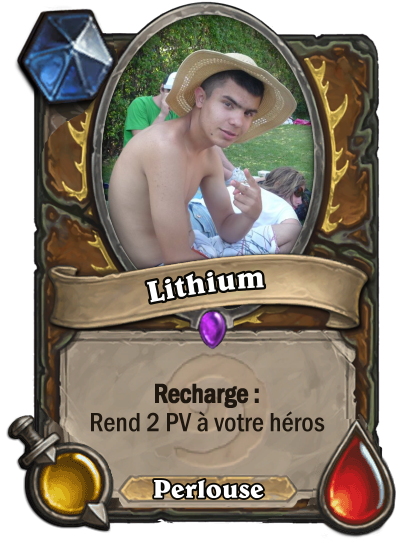
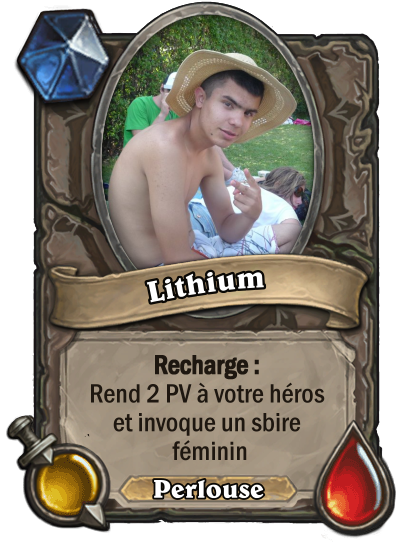
modif visuel carte + add effect

diff --git a/src/core/Monster.java b/src/core/Monster.java
@@ -1,6 +1,7 @@
 package core;
 import java.awt.Image;
 import java.util.ArrayList;
+import java.util.concurrent.ThreadLocalRandom;
 
 import javax.swing.ImageIcon;
 
@@ -20,7 +21,7 @@ public class Monster extends Card implements ICard, IAttackingCard{
 
 	private int damage;
 	private boolean death = false;
-	
+
 	public Monster(String name, int mana, Image image, String effect, int damage, int hp) {
 		super(name, mana, image, effect);
 		this.setHp(hp);
@@ -30,27 +31,66 @@ public class Monster extends Card implements ICard, IAttackingCard{
 	public void action(Monster target) {
 		target.removeHP(this.damage);
 	}
-	
+
 	public void action(Hero hero) {
 		hero.loseHp(this.damage);
 	}
-	
-	public void effect(ArrayList<Card> listCard) {
-		if(this.getName() == "furry") {
+
+	public void effect(ArrayList<Card> listCard,ArrayList<Card> listCardAdversaire) {
+		switch (this.getName()) {
+		case "nick":
+			if(listCard.size() < 4 && listCardAdversaire.size() >= 1) {
+				int randomNum =(listCardAdversaire.size() == 1)?0:ThreadLocalRandom.current().nextInt(0, listCardAdversaire.size()-1);
+				listCard.add(listCardAdversaire.remove(randomNum));
+			}
+			break;
+		case "tortank":
+			if(listCardAdversaire.size() >= 1) {
+				for(int i = listCardAdversaire.size()-1; i>= 0; i--) {
+					Card myCard = listCardAdversaire.get(i);
+					this.addHP(1);
+					((Monster) myCard).removeHP(1);
+					if(((Monster) myCard).isDeath()) {
+						listCardAdversaire.remove(myCard);
+					}
+				}
+			}
+			break;
+		case "meh":
+			if(listCard.size() == 1) {
+				this.addHP(5);
+			}
+			break;
+		case "lithium":
 			if(listCard.size() < 4) {
 				Image sbire_feminin = new ImageIcon(ImagePaths._SBIRE_SBIRE_FEMININ).getImage();
-				Monster sbire_femen = new Monster("sbire_femen",1, sbire_feminin,"Sbire de Furry",1,1);
+				Monster sbire_femen = new Monster("sbire_femen",1, sbire_feminin,"Sbire de lithium",1,1);
 				listCard.add(sbire_femen);
 			}
-		}else if(this.getName() == "garou") {
+			break;
+		case "garou":
+			if(listCard.size() < 4) {
+				Image sbire_feminin2 = new ImageIcon(ImagePaths._SBIRE_SBIRE_FEMININ2).getImage();
+				Monster sbire_femen = new Monster("sbire_femen2",1, sbire_feminin2,"Sbire de garou",1,1);
+				listCard.add(sbire_femen);
+			}
+			break;
+		case "ivan":
+			int randomNum =(listCard.size() == 1)?0:ThreadLocalRandom.current().nextInt(0, listCard.size()-1);
+			((Monster) listCard.get(randomNum)).addHP(2);
+			((Monster) listCard.get(randomNum)).addAttack(2);
+			break;
+		case "furry":
 			for( Card myCard : listCard) {
 				if(myCard != this) {
 					((Monster) myCard).addHP(1);
 				}
 			}
+			break;
 		}
+
 	}
-	
+
 	@Override
 	public boolean isSummonable() {
 		// TODO Auto-generated method stub
@@ -66,18 +106,18 @@ public class Monster extends Card implements ICard, IAttackingCard{
 	@Override
 	public void attack(Card card) {
 		// TODO Auto-generated method stub
-		
+
 	}
-	
+
 	public void removeHP(int number) {
 		this.setHp(this.getHp() - number);
 		this.death = (this.getHp() > 0)?false:true;
 	}
-	
+
 	public void addHP(int number) {
 		this.setHp(this.getHp() + number);
 	}
-		
+
 	public boolean isDeath() {
 		return death;
 	}
@@ -94,7 +134,7 @@ public class Monster extends Card implements ICard, IAttackingCard{
 		this.damage += number;
 	}
 
-	
+
 	public int getDamage() {
 		return this.damage;
 	}
@@ -102,8 +142,8 @@ public class Monster extends Card implements ICard, IAttackingCard{
 	public void setDamage(int damage) {
 		this.damage = damage;;
 	}
-	
-	
+
+
 
 }
 

diff --git a/src/core/GameManager.java b/src/core/GameManager.java
@@ -480,11 +480,21 @@ public class GameManager {
 									handJ1.removeCard(tempCard);
 									monstresJ1.add(tempCard);
 									gameText.append("Pose sur le plateau le monstre : "+tempCard.getName()+"\n");
-									((Monster) tempCard).effect(monstresJ1);
+									((Monster) tempCard).effect(monstresJ1,monstresJ2);
 									for(int i = 0; i < monstresJ1.size(); i++) {
 										listBtnMonstre.get(i).setIcon(new ImageIcon(getScaledImage(monstresJ1.get(i).getImg(), 150, 225)));
 										listBtnMonstre.get(i).setValue(monstresJ1.get(i));
 									}
+									for (int i = 0; i < listBtnAdversaire.size(); i++) {
+										listBtnAdversaire.get(i).setIcon(null);
+										listBtnAdversaire.get(i).setValue(null);
+									}
+									for(int i = 0; i < monstresJ2.size(); i++) {
+										listBtnAdversaire.get(i).setIcon(new ImageIcon(getScaledImage(monstresJ2.get(i).getImg(), 150, 225)));
+										listBtnAdversaire.get(i).setValue(monstresJ2.get(i));
+									}
+									
+									
 								}else {
 									JOptionPane.showMessageDialog(myFrame,
 											"Impossible de placer le monstre. Le terrain est plein !",
@@ -535,10 +545,18 @@ public class GameManager {
 									handJ2.removeCard(tempCard);
 									monstresJ2.add(tempCard);
 									gameText.append("Pose sur le plateau le monstre : "+tempCard.getName()+"\n");
-									((Monster) tempCard).effect(monstresJ2);
+									((Monster) tempCard).effect(monstresJ2,monstresJ1);
 									for(int i = 0; i < monstresJ2.size(); i++) {
 										listBtnMonstre.get(i).setIcon(new ImageIcon(getScaledImage(monstresJ2.get(i).getImg(), 150, 225)));
 										listBtnMonstre.get(i).setValue(monstresJ2.get(i));
+									}
+									for (int i = 0; i < listBtnAdversaire.size(); i++) {
+										listBtnAdversaire.get(i).setIcon(null);
+										listBtnAdversaire.get(i).setValue(null);
+									}
+									for(int i = 0; i < monstresJ1.size(); i++) {
+										listBtnAdversaire.get(i).setIcon(new ImageIcon(getScaledImage(monstresJ1.get(i).getImg(), 150, 225)));
+										listBtnAdversaire.get(i).setValue(monstresJ1.get(i));
 									}
 								}else {
 									JOptionPane.showMessageDialog(myFrame,

diff --git a/src/tool/ImagePaths.java b/src/tool/ImagePaths.java
@@ -9,11 +9,14 @@ public class ImagePaths {
 	public static String _SBIRE_LAPEYRLE = "./assets/img/Cards/Sbirs/Lapeyrle.png";
 	public static String _SBIRE_MAMIE = "./assets/img/Cards/Sbirs/mamie.png";
 	public static String _SBIRE_SBIRE_FEMININ = "./assets/img/Cards/Sbirs/SbireFeminin.png";
+	public static String _SBIRE_SBIRE_FEMININ2 = "./assets/img/Cards/Sbirs/SbireFeminin2.png";
 	public static String _SLIME_3 = "./assets/img/Cards/Sbirs/slime_3.png";
 	public static String _SBIRE_KEVIN = "./assets/img/Cards/Sbirs/Kevin.png";
 	public static String _SBIRE_NICK = "./assets/img/Cards/Sbirs/Nick.png";
 	public static String _SBIRE_MEH = "./assets/img/Cards/Sbirs/Meh.png";
 	public static String _SBIRE_KINGSMAN = "./assets/img/Cards/Sbirs/Kingsman.png";
+	public static String _SBIRE_LITHIUM = "./assets/img/Cards/Sbirs/Lithium.png";
+	public static String _SBIRE_TORTANK = "./assets/img/Cards/Sbirs/Tortank.png";
 
 	
 	/* SPELL IMG PATHS */

diff --git a/src/ihm/MainMenu.java b/src/ihm/MainMenu.java
@@ -117,8 +117,8 @@ public class MainMenu {
 		    		gameManager.startGame(c.getDeckJ1(),c.getDeckJ2());
 		    	}
 		    	
-		    	content.setVisible(false);
-		    	gameManager.startGame(new Deck(1),new Deck(2));
+		    	//content.setVisible(false);
+		    	//gameManager.startGame(new Deck(1),new Deck(2));
 		    }
 		});
 		
